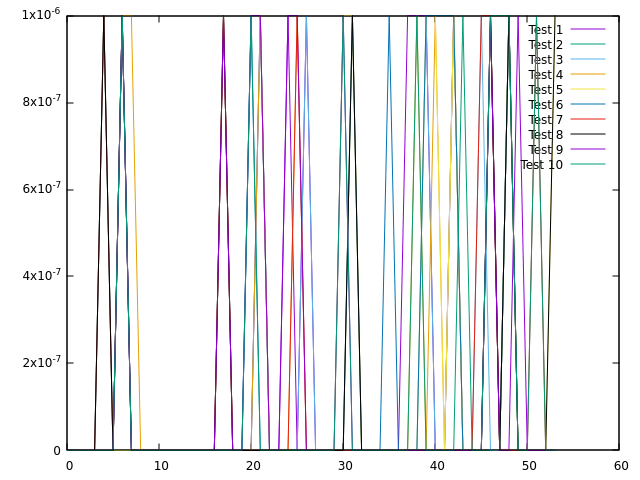
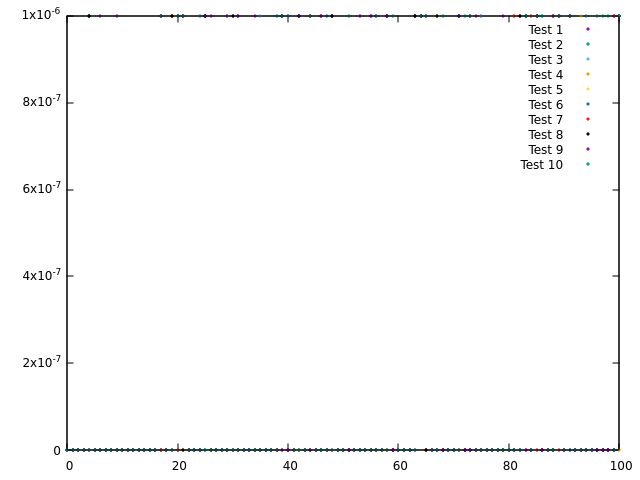
Add log scale

diff --git a/exp_naif/reference.c b/exp_naif/reference.c
@@ -20,7 +20,7 @@ int main(int argc, char** argv){
 
     double x = atof(argv[1]);
     double tmp;
-    for (int n = 0; n < 54; n++){
+    for (int n = 0; n < 101; n++){
         tmp = exp_naif_iter(x, n);
         printf("%lf\n", tmp);
     }

diff --git a/exp_naif/main.c b/exp_naif/main.c
@@ -26,7 +26,7 @@ int main(int argc, char** argv){
  
     float x = atof(argv[1]);
     float tmp;
-    for (int n = 0; n < 61; n++){
+    for (int n = 0; n < 101; n++){
         tmp = exp_naif_iter(x, n);
         printf("%f\n", tmp);
     }
